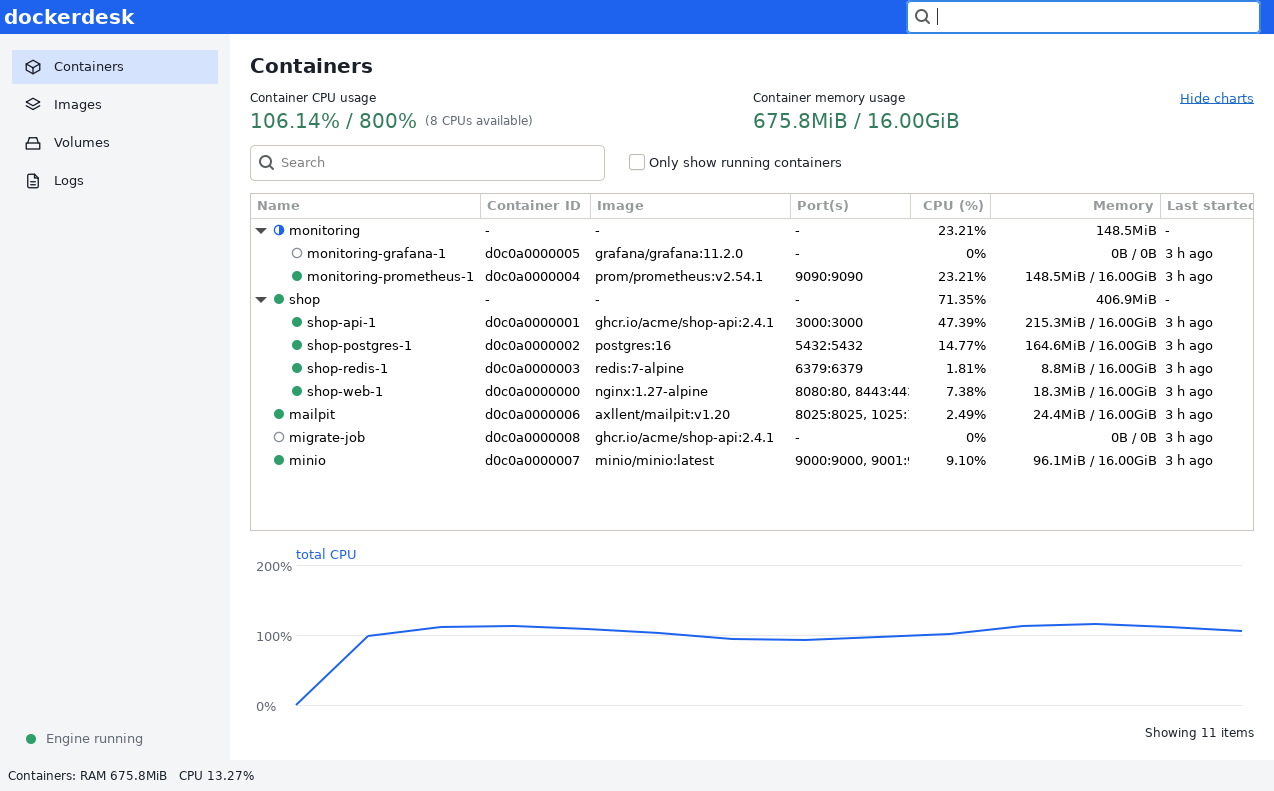
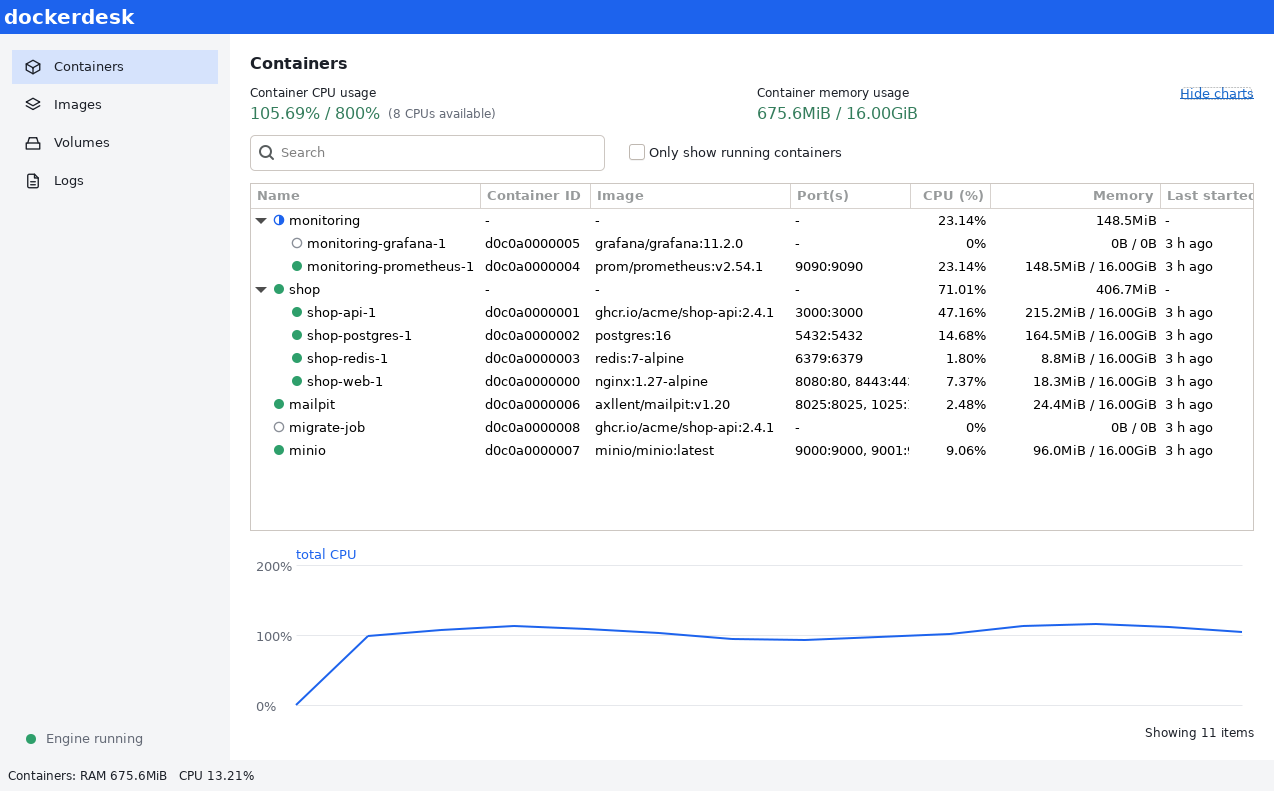
Fix bugs

diff --git a/ui.go b/ui.go
@@ -77,9 +77,6 @@ type ui struct {
 	chartShown                                  bool
 
 	query              string
-	headerSearch       *swt.Text
-	pageSearch         *swt.Text
-	syncing            bool
 	only               *gowt.Button
 	tree               *gowt.Tree
 	menu               *gowt.Menu
@@ -165,9 +162,9 @@ const (
 )
 
 // buildHeader is the compact blue row that stands in for the title bar on macOS. Every child grabs
-// the vertical space and centres in it, so name and search share the traffic lights' centre line.
+// the vertical space and centres in it, so the name shares the traffic lights' centre line.
 func (u *ui) buildHeader(root *gowt.Panel) {
-	h := u.panel(root, surfHeader, gowt.Grid{Columns: 4}, gowt.Cell(gowt.GridCell{Align: gowt.AlignFill, GrowX: true, SpanX: 2, Height: headerHeight}))
+	h := u.panel(root, surfHeader, gowt.Grid{Columns: 3}, gowt.Cell(gowt.GridCell{Align: gowt.AlignFill, GrowX: true, SpanX: 2, Height: headerHeight}))
 	// TODO(wt/facade02): enable dragging the window by this panel once the facade option is released.
 	left := 0
 	if runtime.GOOS == "darwin" {
@@ -179,49 +176,27 @@ func (u *ui) buildHeader(root *gowt.Panel) {
 	}
 	spacer(left + 4)
 	centered.GrowX = true
-	u.label(h, "dockerdesk", surfHeader, inkWhite, u.fonts.title, gowt.Cell(centered))
-	u.headerSearch = u.searchField(h.AsComposite(), 320, false)
+	u.label(h, "dockerdesk", surfHeader, inkWhite, u.fonts.brand, gowt.Cell(centered))
 	spacer(edgeInset)
 }
 
-// searchField is a native search box (magnifier icon where the OS has one) that edits the shared query.
-func (u *ui) searchField(parent *swt.Composite, width int32, inRow bool) *swt.Text {
+// searchField is a native search box (magnifier icon where the OS has one) that filters the containers.
+func (u *ui) searchField(parent *swt.Composite, width int32) *swt.Text {
 	t := swt.NewText(parent, swt.SEARCH|swt.ICON_SEARCH)
 	t.SetMessage("Search")
-	t.AddModifyListener(&modifier{func() { u.onSearch(t) }})
-	if inRow {
-		rd := swt.NewRowData()
-		rd.Width = width
-		t.SetLayoutData(rd)
-	} else {
-		gd := swt.NewGridData()
-		gd.WidthHint = width
-		gd.VerticalAlignment = swt.CENTER
-		gd.GrabExcessVerticalSpace = true
-		t.SetLayoutData(gd)
-	}
+	t.AddModifyListener(&modifier{func() {
+		u.query = t.GetText()
+		u.render()
+	}})
+	rd := swt.NewRowData()
+	rd.Width = width
+	t.SetLayoutData(rd)
 	return t
 }
 
 type modifier struct{ f func() }
 
 func (m *modifier) ModifyText(*swt.ModifyEvent) { m.f() }
-
-// onSearch mirrors the text into the other search box and filters.
-func (u *ui) onSearch(src *swt.Text) {
-	if u.syncing {
-		return
-	}
-	u.query = src.GetText()
-	u.syncing = true
-	for _, t := range []*swt.Text{u.headerSearch, u.pageSearch} {
-		if t != nil && t != src && t.GetText() != u.query {
-			t.SetText(u.query)
-		}
-	}
-	u.syncing = false
-	u.render()
-}
 
 func (u *ui) buildFooter(root *gowt.Panel) {
 	f := u.panel(root, surfFooter, gowt.Grid{Columns: 2, Margin: 8, Spacing: 12}, gowt.Cell(gowt.GridCell{Align: gowt.AlignFill, GrowX: true, SpanX: 2}))
@@ -256,7 +231,7 @@ func (u *ui) buildContainers(p *gowt.Panel) {
 	u.label(p, "Containers", surfContent, inkText, u.fonts.title)
 	u.buildStats(p)
 	bar := u.panel(p, surfContent, gowt.Row{Spacing: 20, Center: true}, fillX)
-	u.pageSearch = u.searchField(bar.AsComposite(), 320, true)
+	u.searchField(bar.AsComposite(), 320)
 	u.only = bar.Button("Only show running containers", func() { u.render() }, gowt.Check())
 	u.style(&u.only.Unwrap().Control, surfContent, inkText)
 	u.buildTree(p)

diff --git a/theme.go b/theme.go
@@ -114,15 +114,15 @@ func (u *ui) onThemeChange(dark bool) {
 	u.chart.Redraw()
 }
 
-type fontSet struct{ title, big, small, bold *swt.Font }
+type fontSet struct{ brand, title, big, small, bold *swt.Font }
 
 // initFonts derives sizes from the system font of ref instead of naming a family, so each OS keeps its own.
 // The fonts live as long as the process, so they are never disposed.
 func (u *ui) initFonts(ref *swt.Control) {
 	fd := ref.GetFont().GetFontData()[0]
-	name, h := fd.GetName(), float64(fd.GetHeight())
-	mk := func(scale float64, style int32) *swt.Font {
-		return swt.NewFontDeviceNameHeightStyle(ref.GetDisplay(), name, int32(h*scale+0.5), style)
+	h := float64(fd.GetHeight())
+	mk := func(scale float64, w gowt.Weight) *swt.Font {
+		return swt.NewFontDeviceNameHeightWeight(ref.GetDisplay(), "", int32(h*scale+0.5), int32(w), false)
 	}
-	u.fonts = fontSet{title: mk(1.5, swt.BOLD), big: mk(1.5, swt.NORMAL), small: mk(0.9, swt.NORMAL), bold: mk(1.0, swt.BOLD)}
+	u.fonts = fontSet{brand: mk(1.5, gowt.Bold), title: mk(1.15, gowt.Semibold), big: mk(1.15, gowt.Medium), small: mk(0.85, gowt.Regular), bold: mk(1.0, gowt.Bold)}
 }

diff --git a/README.md b/README.md
@@ -25,7 +25,7 @@ Regenerate with `make shots` (see below).
 - Live CPU chart (last 60 samples) of the total and the selected container, drawn with the facade `Canvas`/`GC`.
 - Log viewer: follow mode, tail 100/500/1000, stdout/stderr demultiplexed by the SDK.
 - Images and Volumes lists (read-only).
-- Docker-Desktop-like layout: blue header with search, grey sidebar, stat blocks, tree with status and
+- Docker-Desktop-like layout: blue header, grey sidebar, stat blocks, tree with status and
   action icons, footer. Light and dark palettes follow the system theme.
 
 ## Safety
